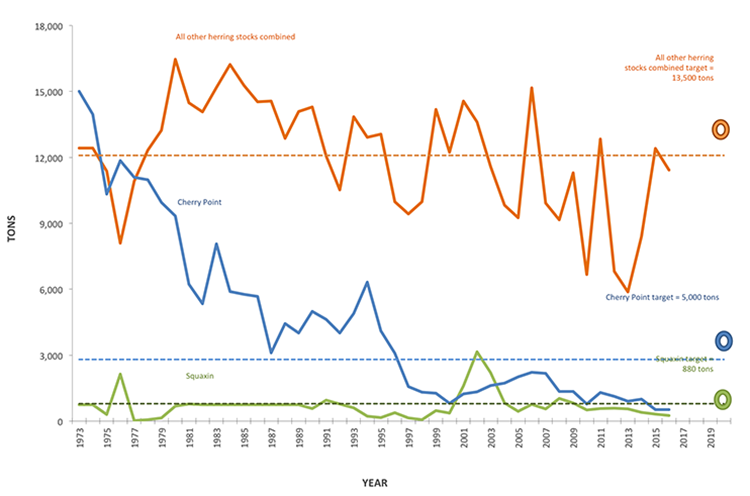
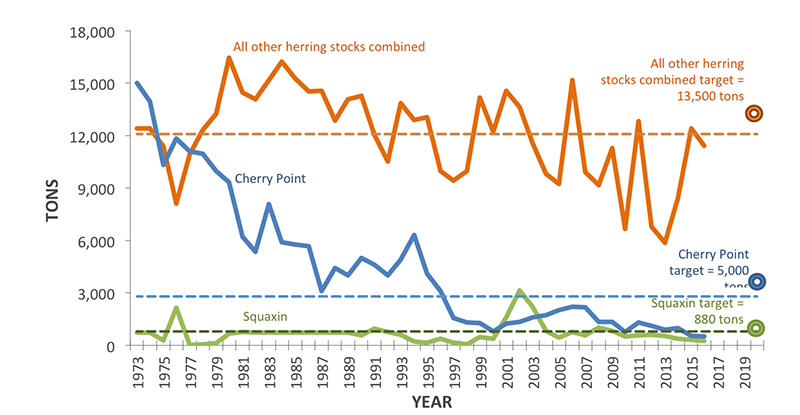
herring chart

Changed region(s): [[0.0, 0.0578, 0.9813, 0.9831], [0.0307, 0.5494, 0.184, 0.6072], [0.0307, 0.0289, 0.1533, 0.1157]]

diff --git a/pacific_herring_indicator1.php b/pacific_herring_indicator1.php
@@ -82,7 +82,7 @@ $(function() {
           <h4>SPAWNING BIOMASS OF PACIFIC HERRING STOCKS IN PUGET SOUND<br />
 <em>1973 – 2016</em></h4>
 
-			<p><img src="images/pacific-herring-chart.png" width="750" height="496" alt="Spawning biomass of Pacific herring stocks in Puget Sound, in tons, 1973-2014" />
+			<p><img src="images/pacific-herring-chart.png" width="800" height="415" alt="Spawning biomass of Pacific herring stocks in Puget Sound, in tons, 1973-2014" />
 		  </p>
 			<blockquote>
 			  <p>Annual spawner abundance estimates for each stock are shown with solid lines; each color corresponds to a different stock. The dotted lines represent the 25-year mean from 1986 to 2010 for the corresponding stock. The 2020 target is shown with a dot for each stock.<br />
